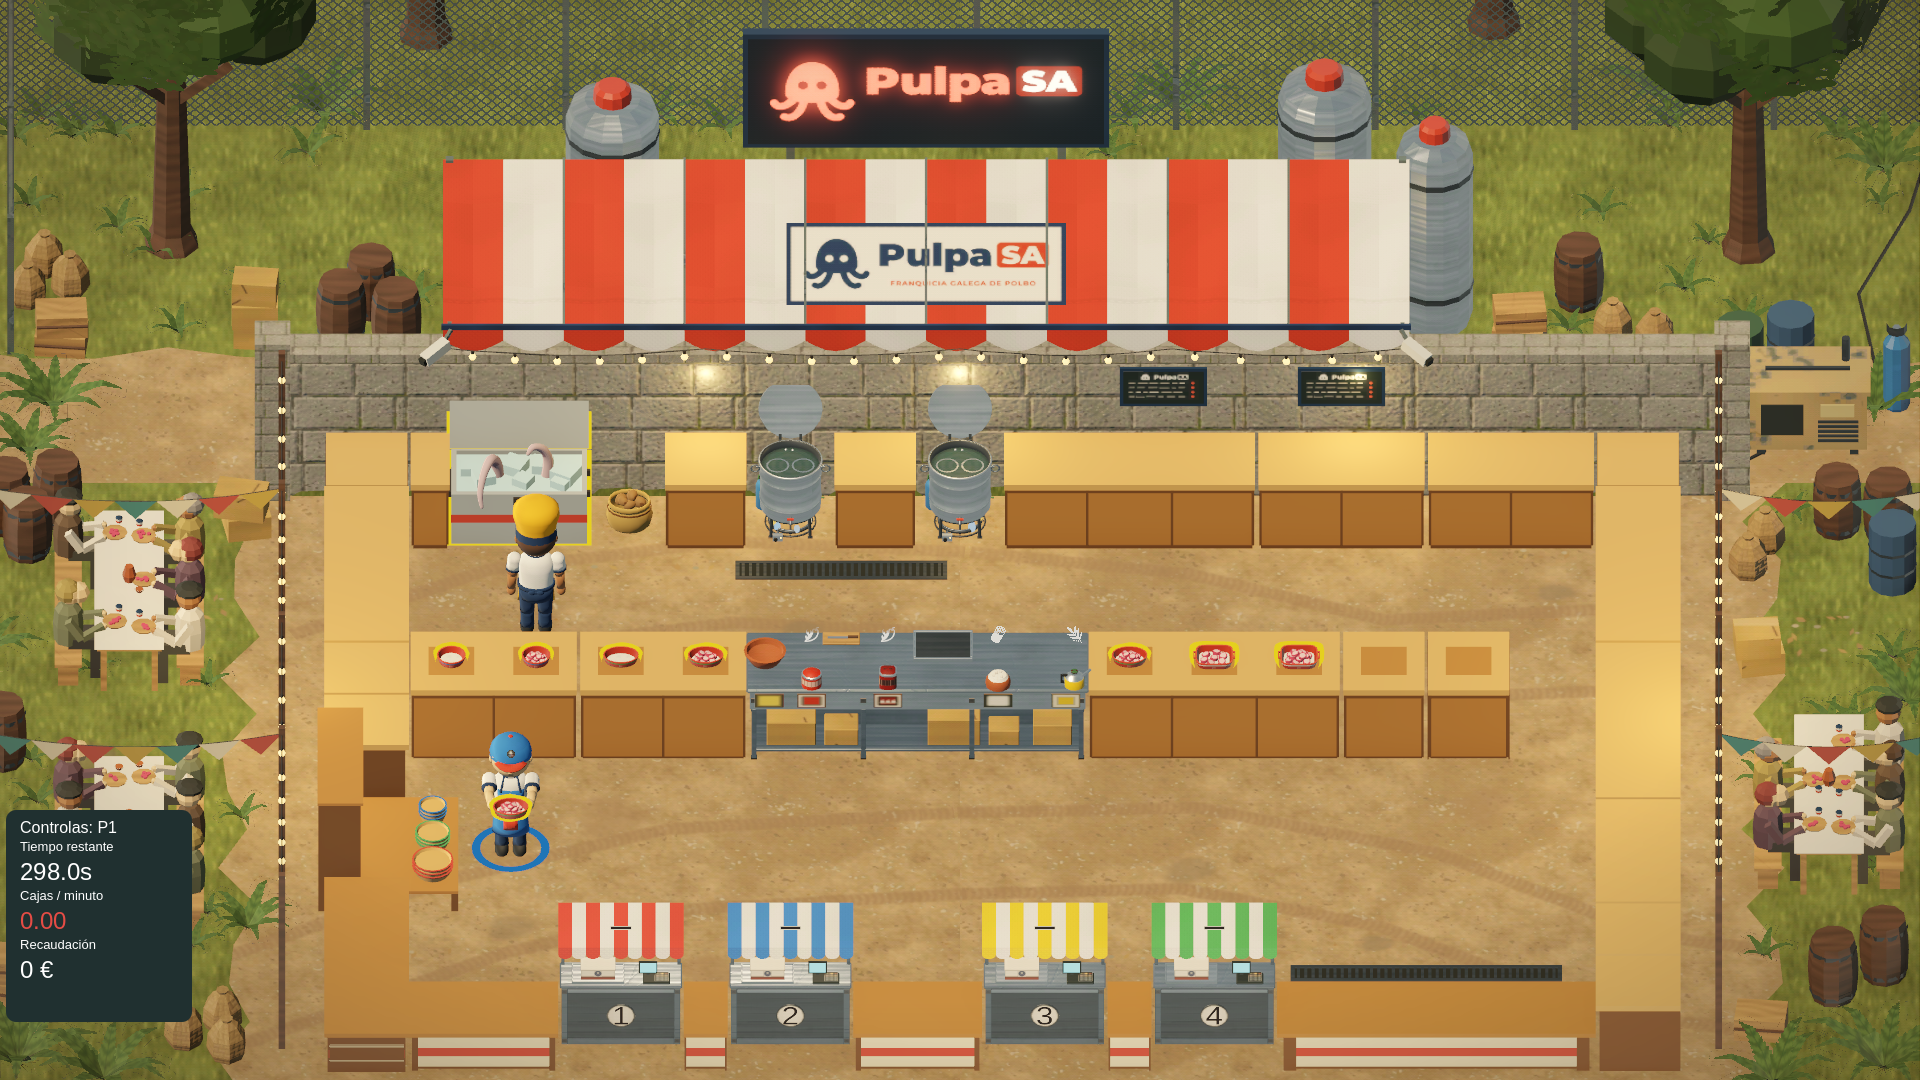
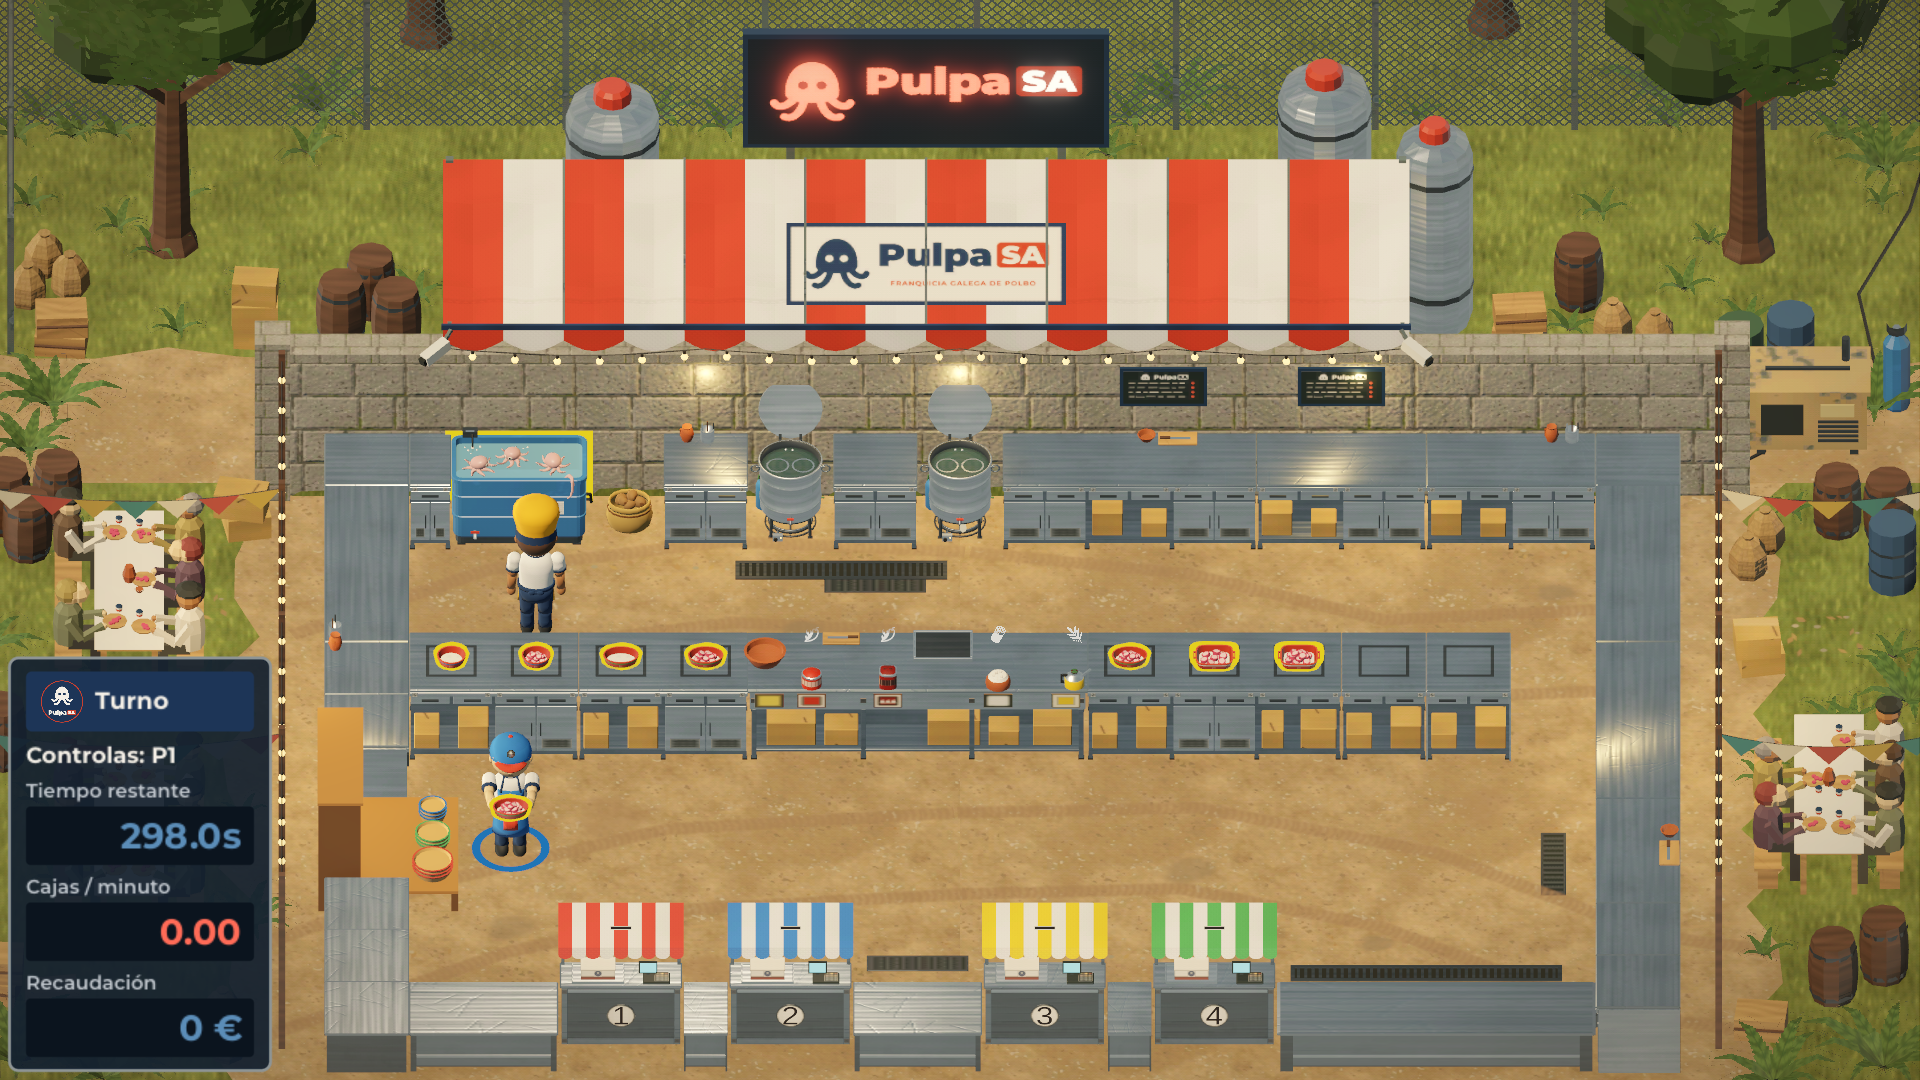
PUL-077: capturas tras integrar la rama base

diff --git a/docs/backlog/PUL-077-bandejas-v2.md b/docs/backlog/PUL-077-bandejas-v2.md
@@ -107,7 +107,7 @@ La referencia sirve en bandejas/recipientes rojos de plástico: tres tamaños di
   [`zoom`](../evidence/PUL-077/level_camera_after_plain_zoom.png) /
   [`resaltado`](../evidence/PUL-077/level_camera_after_highlight.png) /
   [`resaltado zoom`](../evidence/PUL-077/level_camera_after_highlight_zoom.png). El papel separa las
-  rodajas del rojo, las tres siluetas se distinguen sobre la madera de la barra y en la mano.
+  rodajas del rojo, las tres siluetas se distinguen sobre el acero de las encimeras v2 (PUL-084, integrada la rama base antes de la captura «después»; la «antes» es con las encimeras v1) y en la mano.
   La estantería (`box_shelf`) sigue con sus pilas v1: la rehace PUL-081.
 - **Render del `.blend`** (Cycles, encimera `mat_steel_brushed_top`, ortográfica a 38°; vacías detrás,
   llenas delante con la escala de `fill_scale`): [`blender_render.png`](../evidence/PUL-077/blender_render.png).
